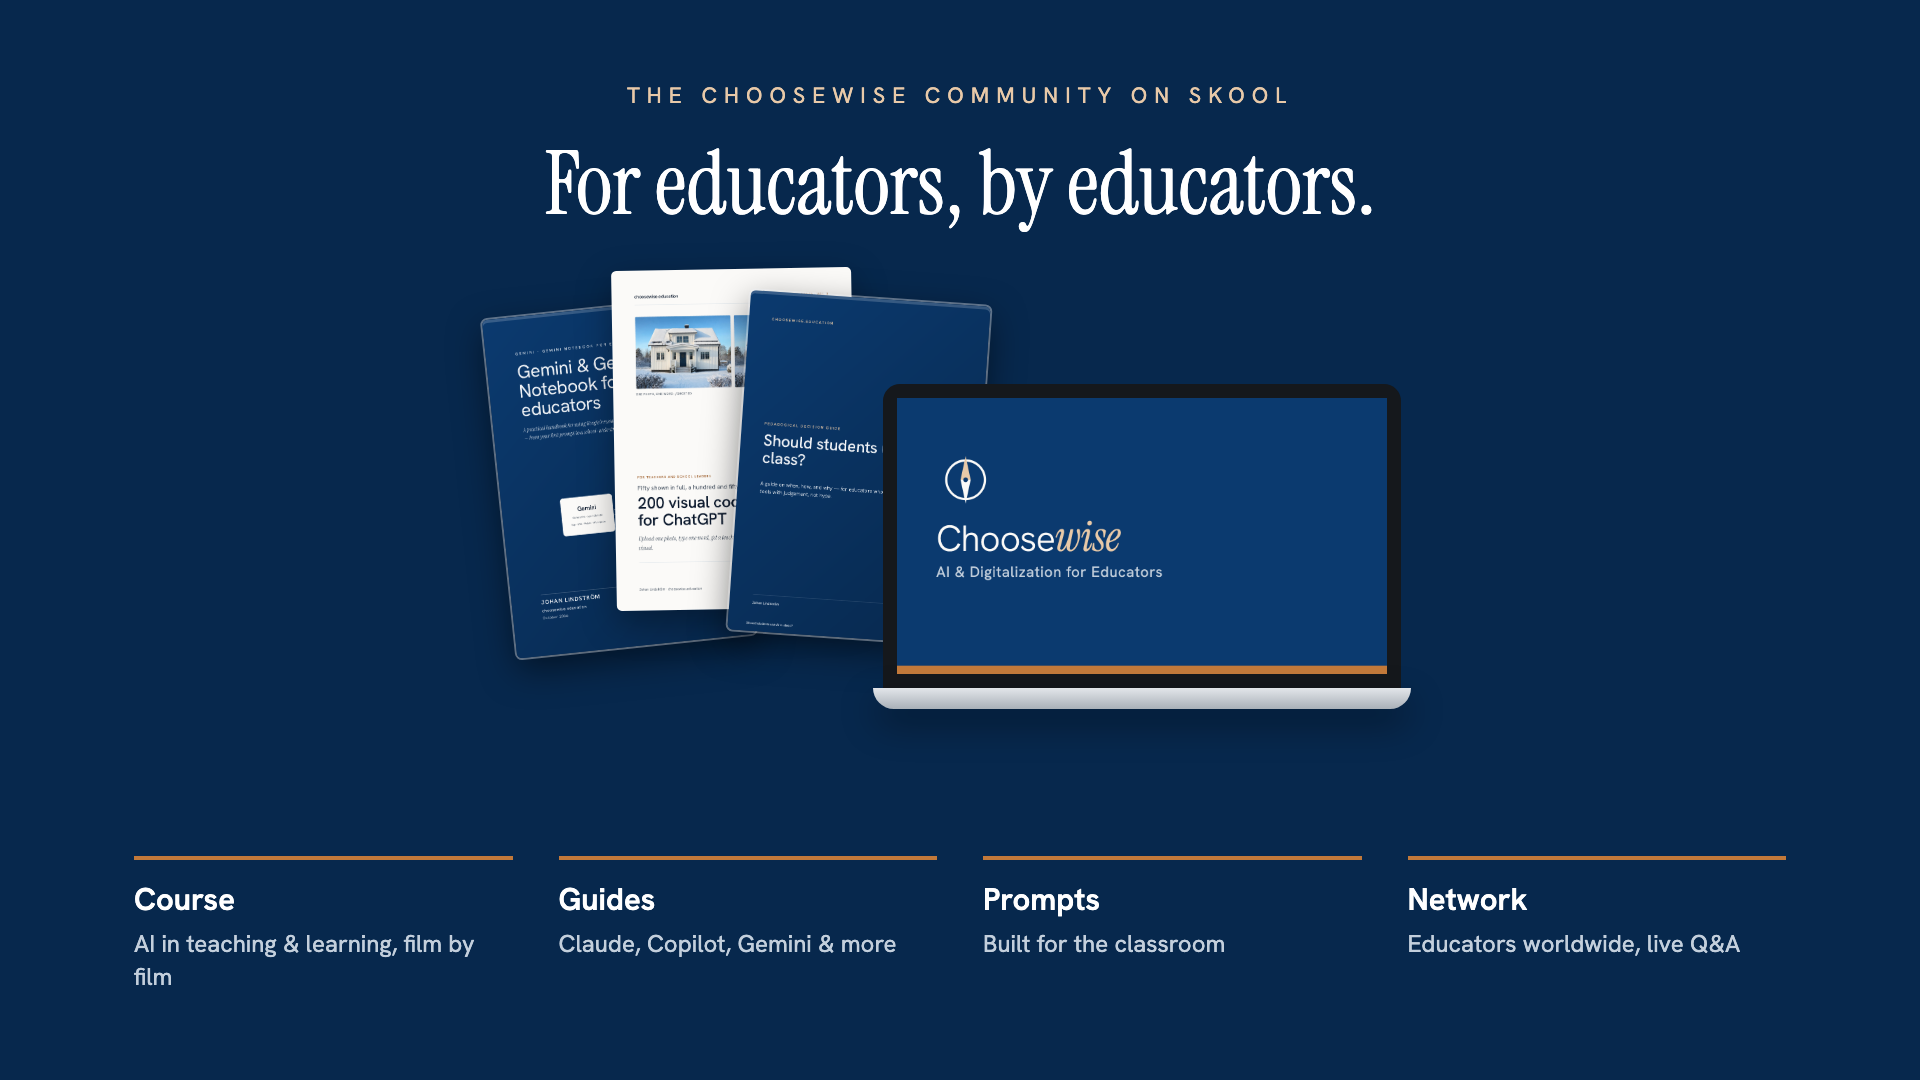
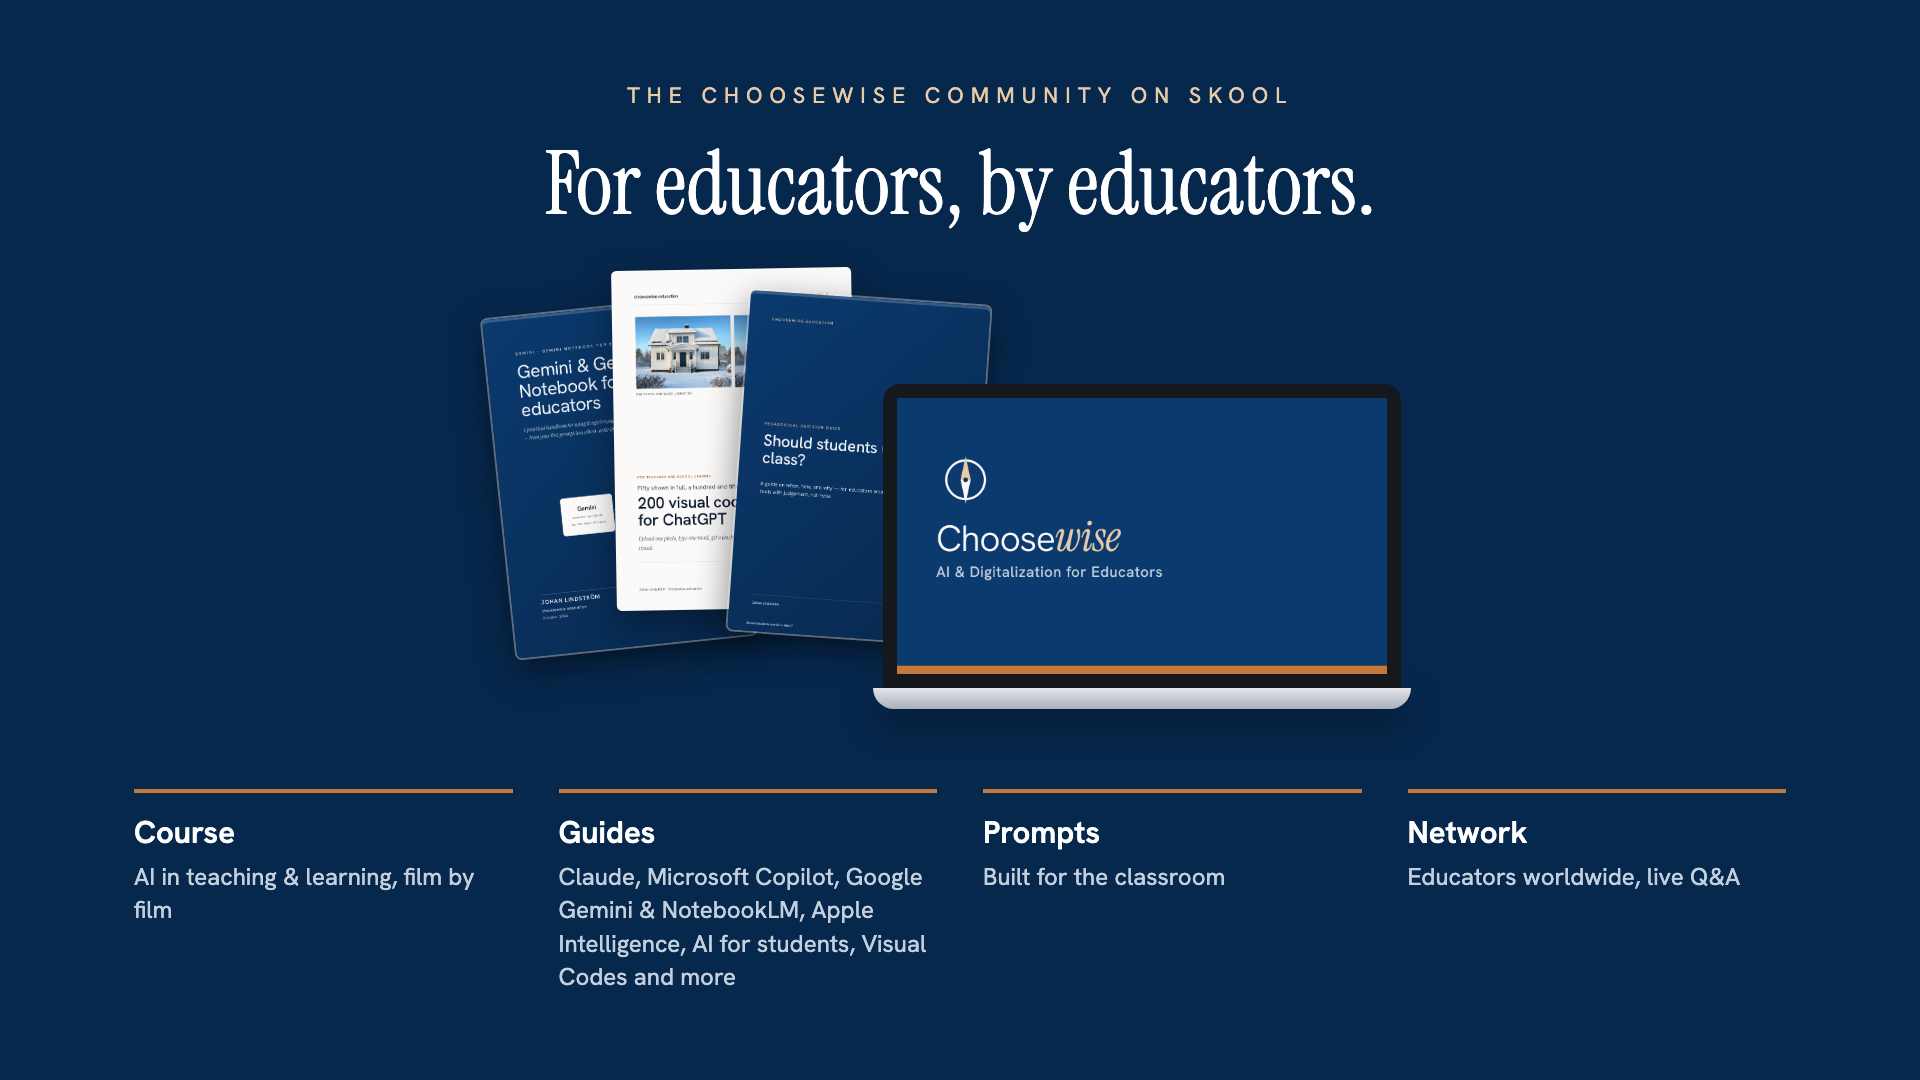
content(community): samma guidelista i listan, säljbilden och alt-texten
Johans ändring i förhandsvisningen: Claude, Microsoft Copilot, Google
Gemini & NotebookLM, Apple Intelligence, AI for students, Visual Codes and
more. Säljbilden är omrenderad (bara webbversionen; Skool-versionen är
oförändrad).

Changed region(s): [[0.2812, 0.7639, 0.6562, 0.9167], [0.7188, 0.7639, 0.9062, 0.8861], [0.0625, 0.7639, 0.25, 0.9167]]

diff --git a/community/index.html b/community/index.html
@@ -83,7 +83,7 @@
           </div>
           <div class="cm-item">
             <h3>The guide library</h3>
-            <p>Claude, Microsoft Copilot, Google Gemini &amp; NotebookLM, Apple Intelligence, building your own AI OS, and more.</p>
+            <p>Claude, Microsoft Copilot, Google Gemini &amp; NotebookLM, Apple Intelligence, AI for students, Visual Codes and more.</p>
           </div>
           <div class="cm-item">
             <h3>Weekly live Q&amp;A</h3>
@@ -122,7 +122,7 @@
         <picture>
           <source type="image/webp" srcset="/assets/images/brand/skool/community-web.webp">
           <img class="cm-promo" src="/assets/images/brand/skool/community-web.png"
-               alt="The Choosewise community on Skool. For educators, by educators. Course: AI in teaching and learning, film by film. Guides: Claude, Copilot, Gemini and more. Prompts: built for the classroom. Network: educators worldwide, live Q&amp;A."
+               alt="The Choosewise community on Skool. For educators, by educators. Course: AI in teaching and learning, film by film. Guides: Claude, Microsoft Copilot, Google Gemini &amp; NotebookLM, Apple Intelligence, AI for students, Visual Codes and more. Prompts: built for the classroom. Network: educators worldwide, live Q&amp;A."
                width="1920" height="1080" loading="lazy">
         </picture>
         <a class="btn cm-btn--light" href="https://www.skool.com/choosewise-7103">Join the community on Skool →</a>

diff --git a/exports/skool-community-1920x1080.html b/exports/skool-community-1920x1080.html
@@ -99,7 +99,7 @@
 
   <div class="values">
     <div><b>Course</b><span>AI in teaching &amp; learning, film by film</span></div>
-    <div><b>Guides</b><span>Claude, Copilot, Gemini &amp; more</span></div>
+    <div><b>Guides</b><span>Claude, Microsoft Copilot, Google Gemini &amp; NotebookLM, Apple Intelligence, AI for students, Visual Codes and more</span></div>
     <div><b>Prompts</b><span>Built for the classroom</span></div>
     <div><b>Network</b><span>Educators worldwide, live Q&amp;A</span></div>
   </div>

diff --git a/scripts/tests/test_community_page.py b/scripts/tests/test_community_page.py
@@ -187,3 +187,15 @@ def test_close_band_meets_the_footer(site, browser):
                      " - document.querySelector('#cm-close').getBoundingClientRect().bottom")
     ctx.close()
     assert abs(gap) < 1, gap
+
+
+GUIDES = ("Claude, Microsoft Copilot, Google Gemini &amp; NotebookLM, Apple Intelligence, "
+          "AI for students, Visual Codes and more")
+
+
+def test_guide_list_is_the_same_everywhere():
+    # Johan 2026-11-11: samma guider i listan, i säljbilden och i dess alt-text.
+    assert GUIDES in section("cm-inside")
+    assert GUIDES in img_alt("community-web")
+    promo = (ROOT / "exports/skool-community-1920x1080.html").read_text(encoding="utf-8")
+    assert f"<b>Guides</b><span>{GUIDES}</span>" in promo
